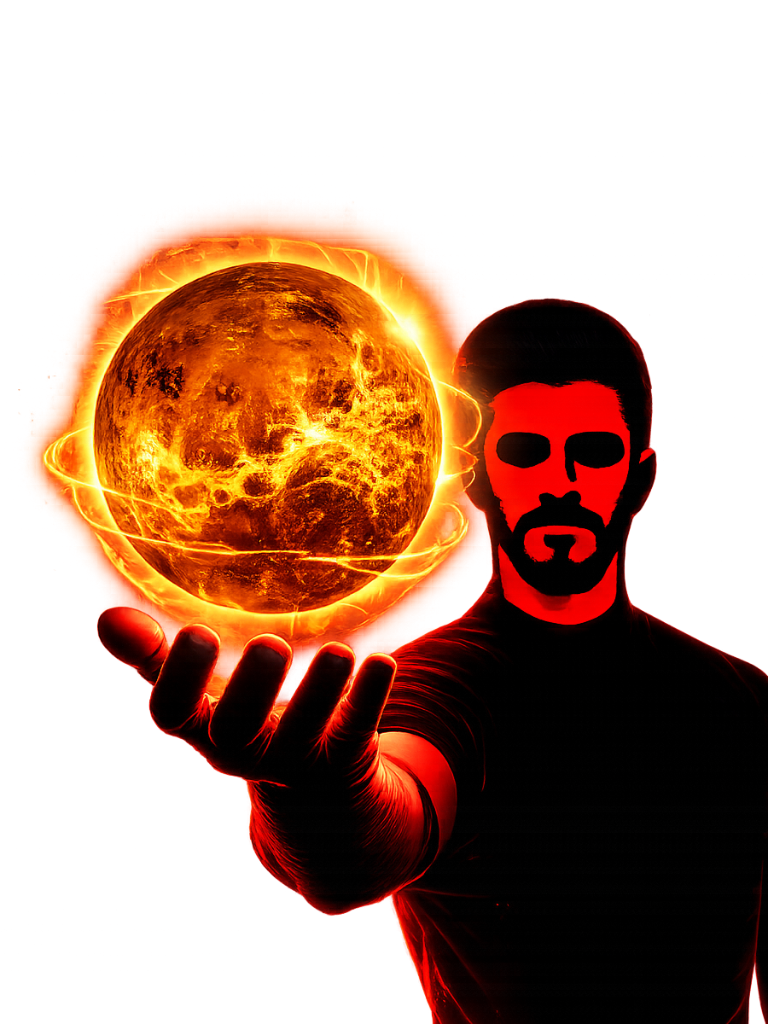
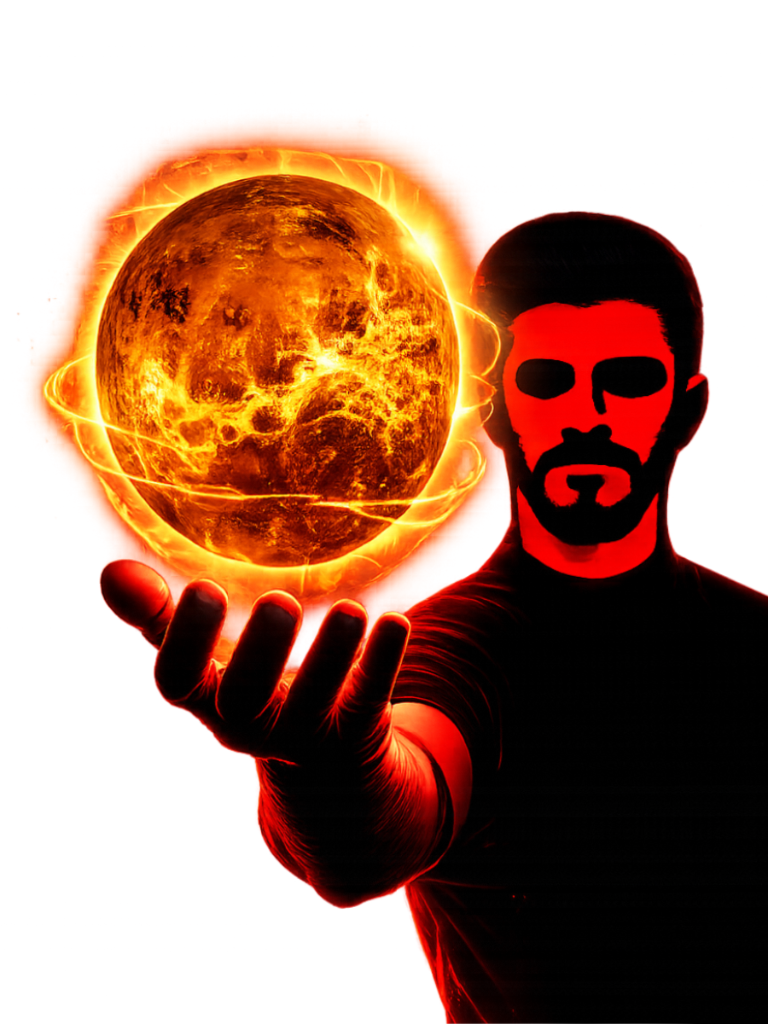
update

diff --git a/src/app/globals.css b/src/app/globals.css
@@ -6002,90 +6002,6 @@ canvas {
   mask-image: radial-gradient(ellipse 30% 29% at 33% 37%, #000 56%, transparent 100%);
 }
 
-.celestial-stage-smoke,
-.celestial-stage-flame {
-  position: absolute;
-  pointer-events: none;
-}
-
-.celestial-stage-smoke {
-  bottom: 0;
-  right: 0;
-  z-index: 2;
-  width: 64%;
-  height: 72%;
-  background:
-    radial-gradient(ellipse at 77% 91%, rgba(183, 159, 157, 0.26), transparent 35%),
-    radial-gradient(ellipse at 57% 66%, rgba(151, 133, 158, 0.22), transparent 48%),
-    radial-gradient(ellipse at 83% 41%, rgba(177, 162, 169, 0.18), transparent 55%);
-  filter: blur(1.7rem);
-  -webkit-mask-image: radial-gradient(ellipse 72% 98% at 74% 100%, #000 0%, transparent 100%);
-  mask-image: radial-gradient(ellipse 72% 98% at 74% 100%, #000 0%, transparent 100%);
-  transform-origin: 75% 100%;
-  animation: celestial-smoke-rise 7.2s ease-in-out infinite alternate;
-}
-
-.celestial-stage-smoke::before,
-.celestial-stage-smoke::after {
-  position: absolute;
-  content: "";
-  width: 56%;
-  height: 52%;
-  border-radius: 50%;
-  background:
-    radial-gradient(ellipse at 50% 50%, rgba(209, 196, 202, 0.32), rgba(143, 126, 151, 0.2) 42%, transparent 76%);
-  filter: blur(1.5rem);
-  animation: celestial-smoke-wisp 6.8s ease-in-out infinite;
-}
-
-.celestial-stage-smoke::before {
-  left: 8%;
-  bottom: 1%;
-}
-
-.celestial-stage-smoke::after {
-  right: -9%;
-  bottom: 12%;
-  opacity: 0.75;
-  animation-delay: 2.4s;
-}
-
-.celestial-stage-flame {
-  left: 40%;
-  right: 0;
-  bottom: 0;
-  z-index: 2;
-  height: 54%;
-  background:
-    radial-gradient(ellipse 18% 74% at 17% 100%, rgba(255, 238, 174, 0.9), rgba(255, 139, 40, 0.56) 48%, transparent 100%),
-    radial-gradient(ellipse 23% 92% at 39% 100%, rgba(255, 174, 75, 0.88), rgba(237, 71, 34, 0.52) 52%, transparent 100%),
-    radial-gradient(ellipse 18% 78% at 63% 100%, rgba(255, 239, 178, 0.86), rgba(255, 134, 42, 0.5) 48%, transparent 100%),
-    radial-gradient(ellipse 22% 84% at 88% 100%, rgba(255, 174, 74, 0.82), rgba(204, 54, 34, 0.48) 55%, transparent 100%),
-    radial-gradient(ellipse 78% 38% at 62% 100%, rgba(255, 103, 33, 0.4), transparent 100%);
-  filter: blur(0.7rem);
-  mix-blend-mode: screen;
-  -webkit-mask-image: radial-gradient(ellipse 94% 100% at 62% 100%, #000 0%, transparent 100%);
-  mask-image: radial-gradient(ellipse 94% 100% at 62% 100%, #000 0%, transparent 100%);
-  transform-origin: 60% 100%;
-  clip-path: circle(0% at 100% 100%);
-  animation:
-    celestial-flame-emerge 1.5s cubic-bezier(0.2, 0.72, 0.24, 1) both,
-    celestial-flame-breathe 4.6s 1.5s ease-in-out infinite alternate;
-}
-
-.celestial-stage-flame::before {
-  position: absolute;
-  inset: 0;
-  content: "";
-  background:
-    radial-gradient(ellipse 11% 73% at 17% 100%, rgba(255, 239, 174, 0.68), rgba(255, 151, 62, 0.36) 42%, transparent 100%),
-    radial-gradient(ellipse 14% 91% at 39% 100%, rgba(255, 190, 88, 0.64), rgba(244, 95, 45, 0.32) 46%, transparent 100%),
-    radial-gradient(ellipse 10% 68% at 63% 100%, rgba(255, 241, 176, 0.62), rgba(255, 154, 60, 0.3) 42%, transparent 100%),
-    radial-gradient(ellipse 14% 84% at 87% 100%, rgba(255, 184, 82, 0.6), rgba(221, 72, 43, 0.3) 48%, transparent 100%);
-  filter: blur(0.42rem);
-  animation: celestial-flame-tongues 3.2s ease-in-out infinite alternate;
-}
-
 @keyframes celestial-image-rise {
   from { opacity: 0; transform: translateY(10%); }
   to { opacity: 0.8; transform: translateY(0); }
@@ -6101,41 +6017,10 @@ canvas {
   to { opacity: 1; transform: translateY(0); }
 }
 
-@keyframes celestial-smoke-rise {
-  from { opacity: 0.3; transform: translate3d(1%, 5%, 0) scale(0.97); }
-  to { opacity: 0.55; transform: translate3d(-2%, -8%, 0) scale(1.03); }
-}
-
-@keyframes celestial-smoke-wisp {
-  0% { opacity: 0.16; transform: translate3d(1%, 7%, 0) scale(0.92); }
-  58% { opacity: 0.42; }
-  100% { opacity: 0; transform: translate3d(-4%, -18%, 0) scale(1.06); }
-}
-
-@keyframes celestial-flame-emerge {
-  from { opacity: 0; clip-path: circle(0% at 100% 100%); }
-  to { opacity: 0.86; clip-path: circle(155% at 100% 100%); }
-}
-
-@keyframes celestial-flame-breathe {
-  from { opacity: 0.72; transform: translate3d(0, 0.5%, 0) scaleX(0.99); }
-  to { opacity: 0.96; transform: translate3d(0, -1%, 0) scaleX(1.01); }
-}
-
-@keyframes celestial-flame-tongues {
-  from { opacity: 0.62; transform: translate3d(0, 2%, 0) scaleY(0.96); }
-  to { opacity: 0.92; transform: translate3d(-0.5%, -2%, 0) scaleY(1.04); }
-}
-
 @media (prefers-reduced-motion: reduce) {
   .celestial-stage-image,
   .celestial-stage-protected,
-  .celestial-stage-smoke,
-  .celestial-stage-flame,
-  .celestial-stage-smoke::before,
-  .celestial-stage-smoke::after,
-  .celestial-stage-hand-soften,
-  .celestial-stage-flame::before {
+  .celestial-stage-hand-soften {
     animation: none !important;
     clip-path: none !important;
   }

diff --git a/src/app/page.tsx b/src/app/page.tsx
@@ -318,8 +318,6 @@ export default function HomePage() {
                   src={CELESTIAL_IMAGE[activeCelestial === "earth" ? "earth" : CELESTIAL_CONSTELLATIONS[activePlanetIndex!].planet]}
                   alt=""
                 />
-                <span className="celestial-stage-smoke" />
-                <span className="celestial-stage-flame" />
                 <img
                   className="celestial-stage-protected celestial-stage-protected-planet"
                   src={CELESTIAL_IMAGE[activeCelestial === "earth" ? "earth" : CELESTIAL_CONSTELLATIONS[activePlanetIndex!].planet]}
